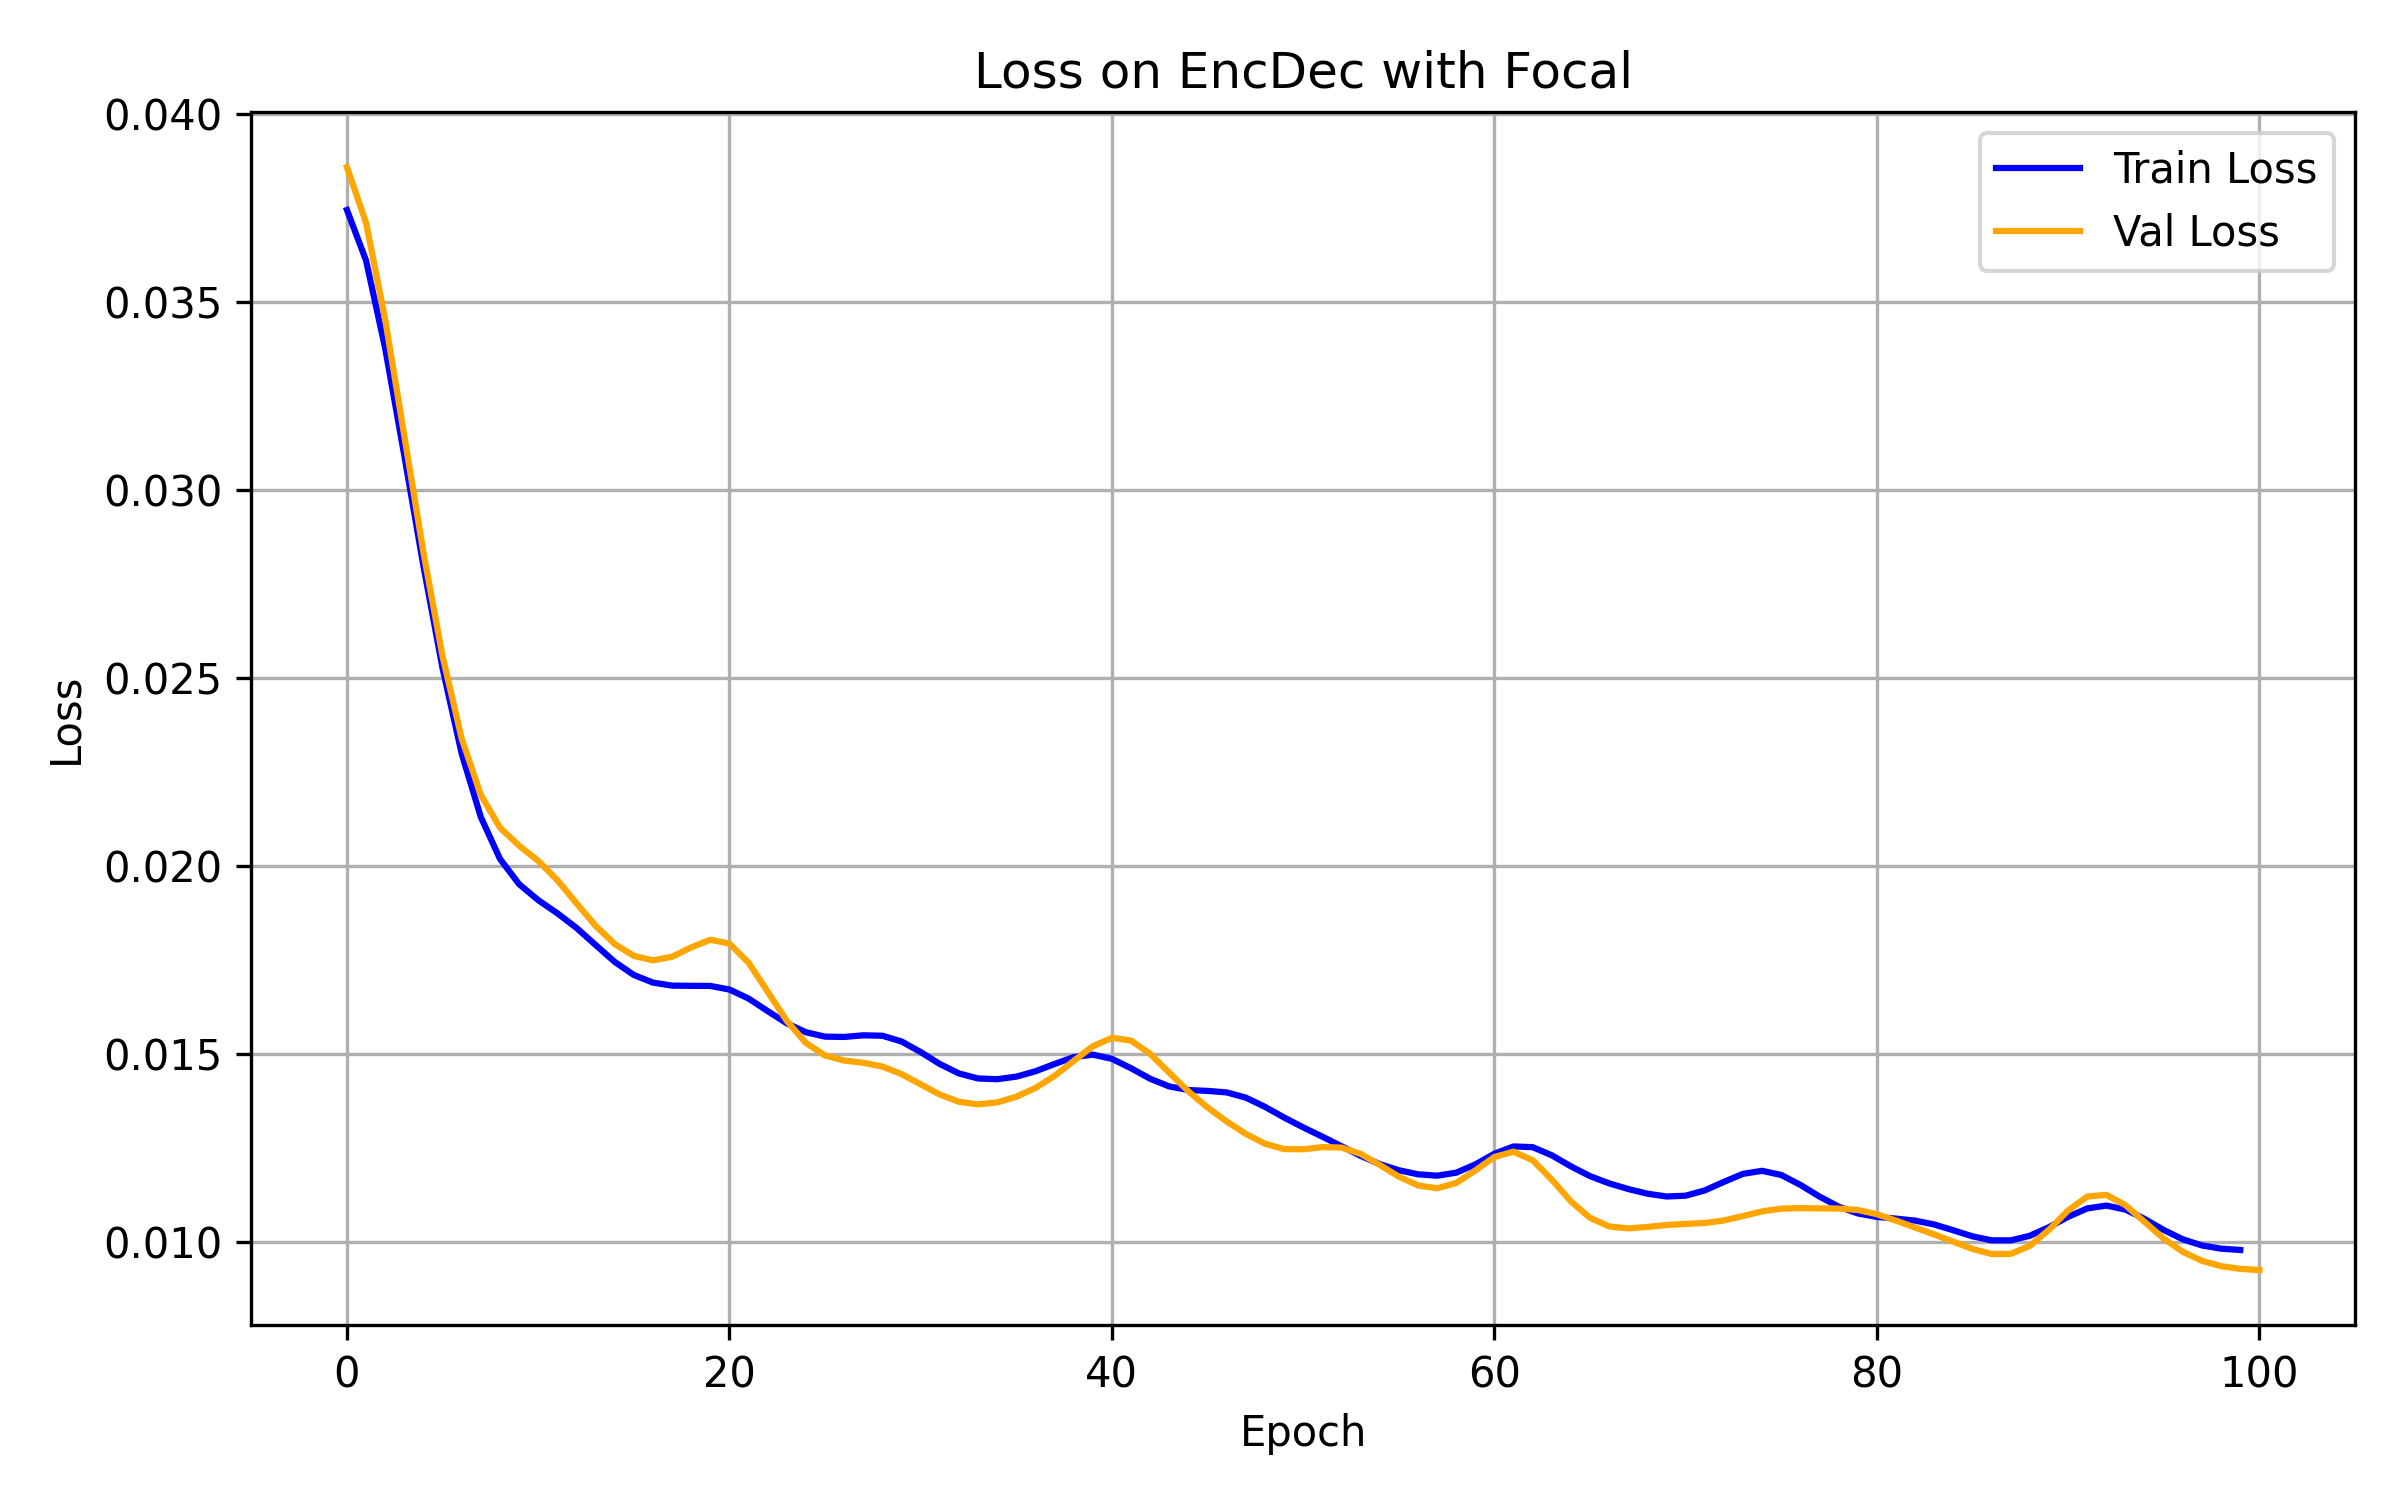
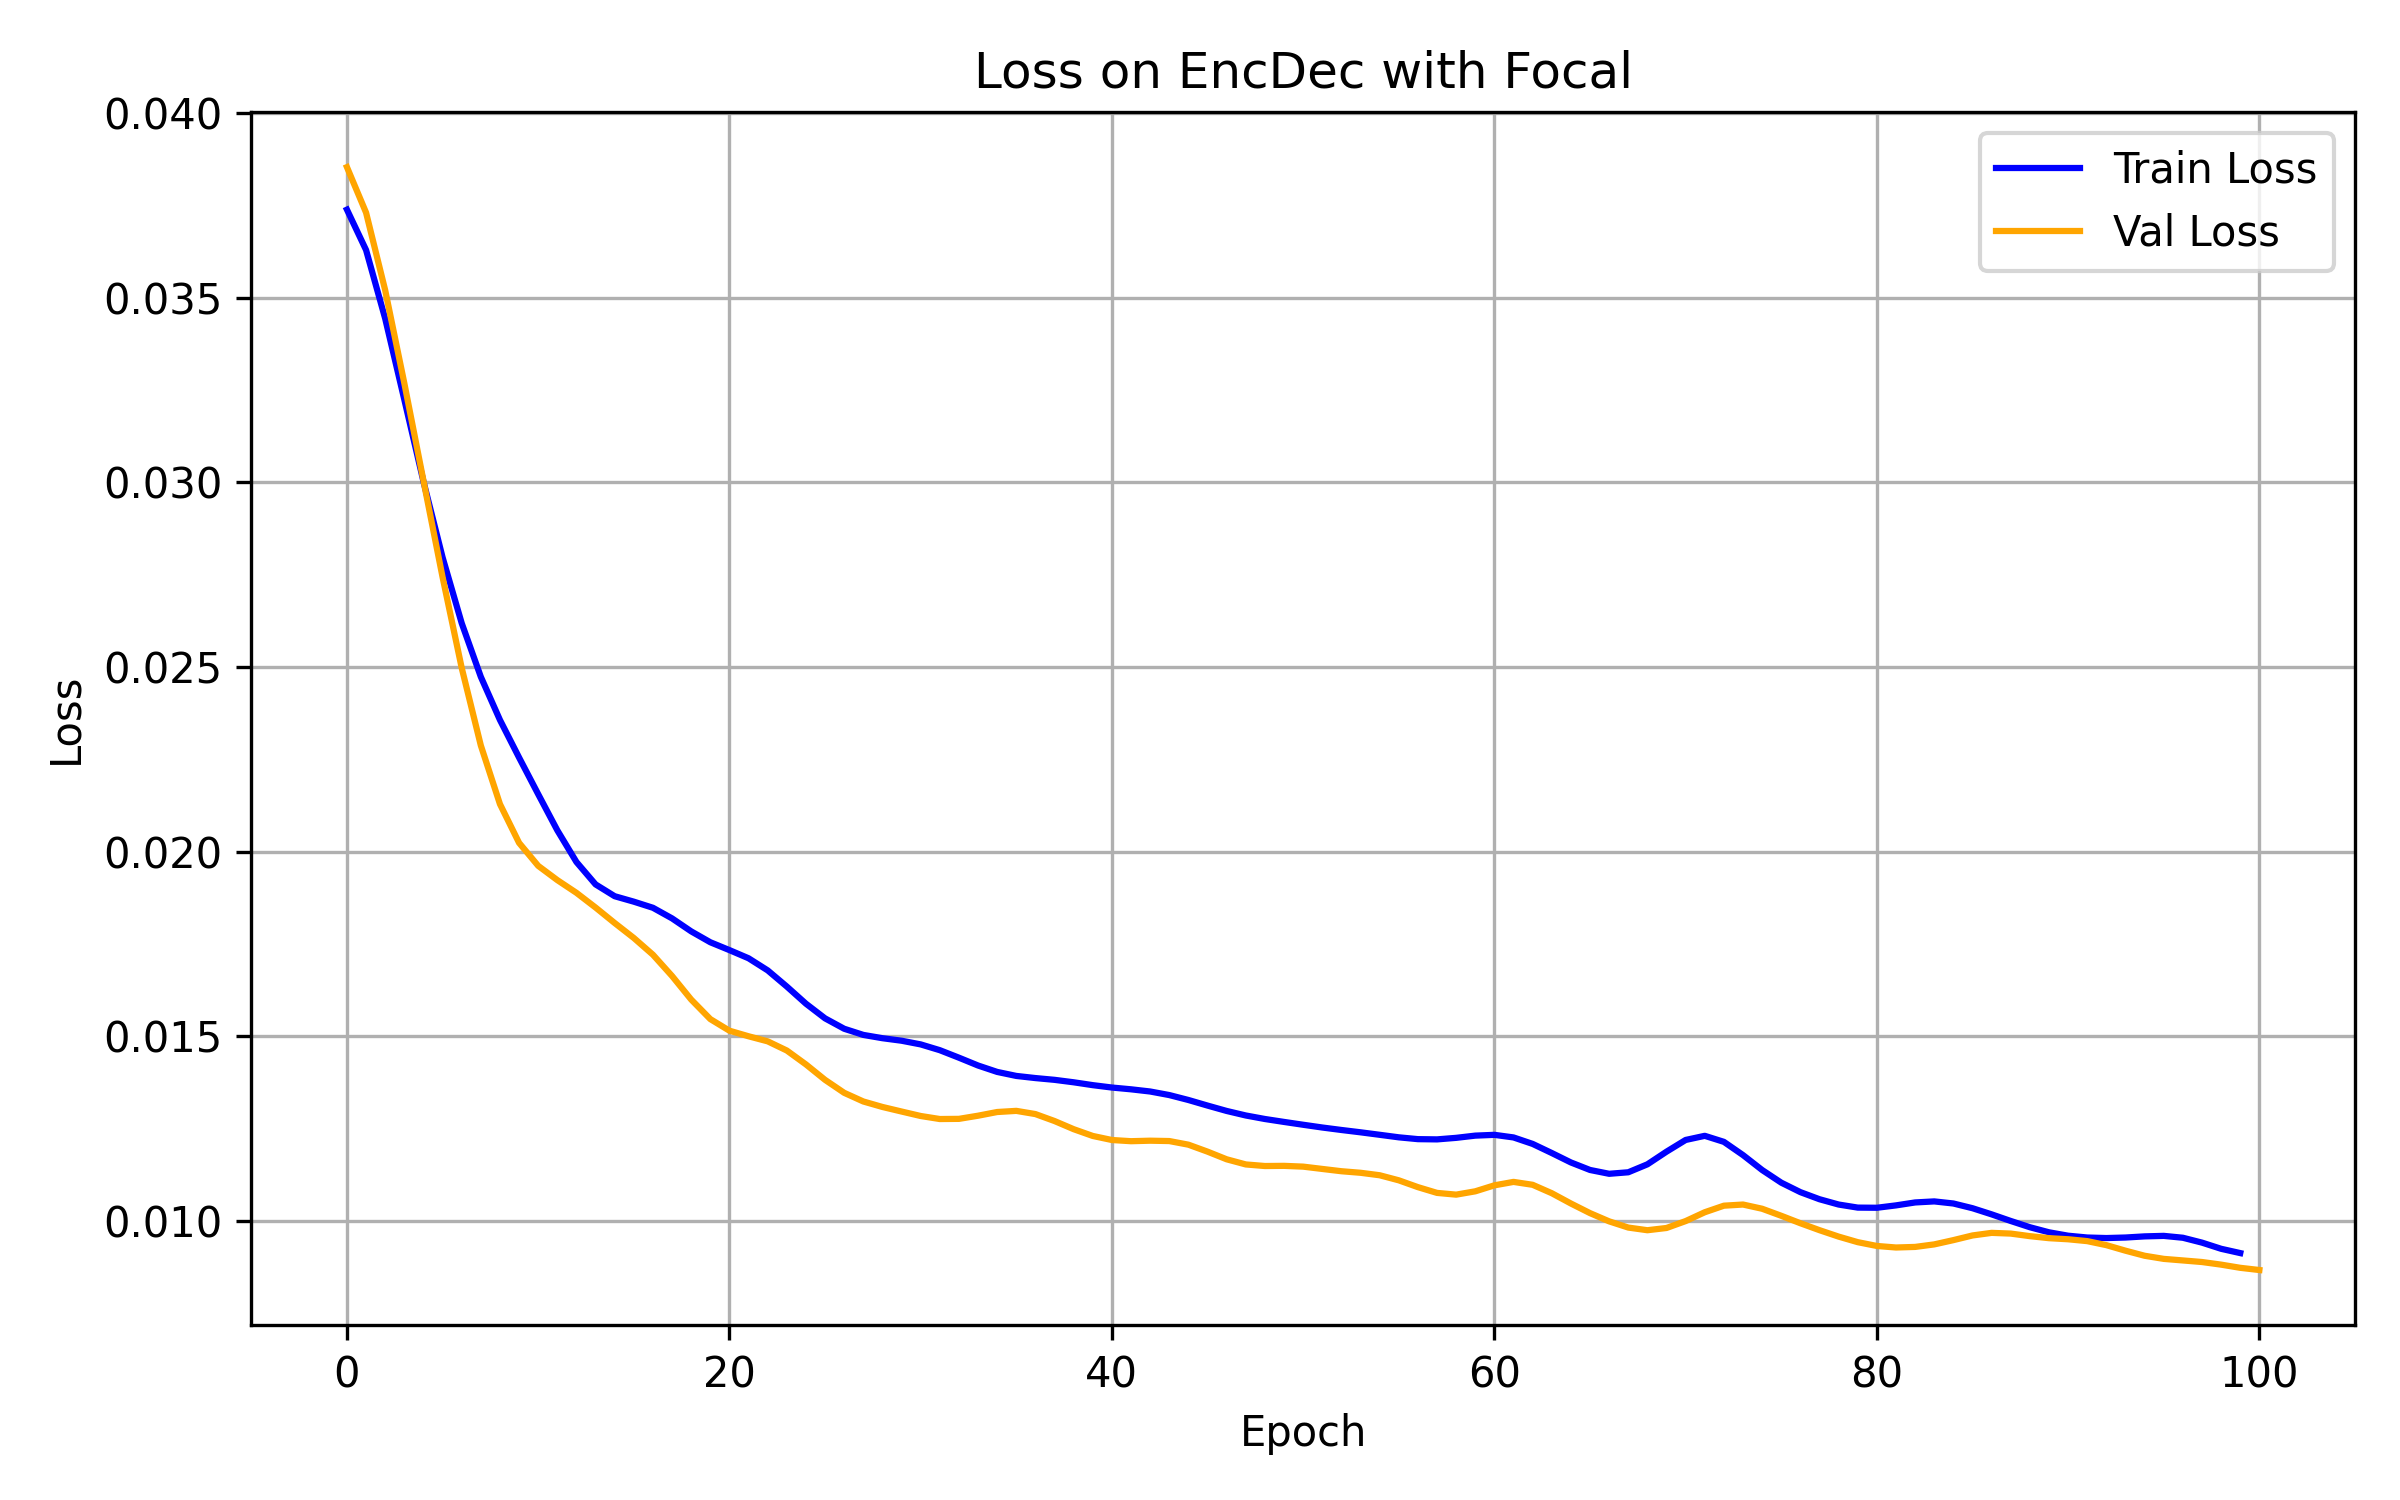
performance

Changed region(s): [[0.0312, 0.1227, 0.9688, 0.8587], [0.0312, 0.7973, 0.0938, 0.8587], [0.0625, 0.0613, 0.0938, 0.092]]

diff --git a/mytrain.py b/mytrain.py
@@ -68,9 +68,9 @@ def train_eval_ph2():
             "specificity": specificity_withLogtis
         }
     
-    model = LightningUNet2(loss_fn=loss, loss_name=loss_name, metrics=custom_metrics, n_channels=3, n_classes=1, base_c=32)
+    # model = LightningUNet2(loss_fn=loss, loss_name=loss_name, metrics=custom_metrics, n_channels=3, n_classes=1, base_c=32)
     
-    # model = LightningEncDec(loss_fn=loss, loss_name=loss_name, metrics=custom_metrics, in_channels=3, num_classes=1)
+    model = LightningEncDec(loss_fn=loss, loss_name=loss_name, metrics=custom_metrics, in_channels=3, num_classes=1)
     
     exp_name = f"{model.model_name}-{model.loss_fc_name}"
     
@@ -112,30 +112,32 @@ def train_eval_DRIVE():
         }
     
     # loss - Weight BCE
-    device = 'cuda' if torch.cuda.is_available() else 'cpu'
-    pos_weight=compute_pos_weight(train_loader, device)
-    # print(f'train pos_weight:{pos_weight}')
+    # device = 'cuda' if torch.cuda.is_available() else 'cpu'
+    # pos_weight=compute_pos_weight(train_loader, device)
+    # print(f'pos_weight:{pos_weight}\n')
 
-    loss = BCELoss(pos_weight=pos_weight, with_mask=True)
-    loss_name = 'MaskedWeightedBCE'
+    # loss = BCELoss(pos_weight=pos_weight, with_mask=True)
+    # loss_name = 'MaskedWeightedBCE'
     
     # loss - BCE
     # loss = BCELoss(with_mask=True)
     # loss_name = 'MaskedBCE'
     
     # loss - FocalLoss
-    # loss = FocalLoss(with_mask=True)
-    # loss_name = 'MaskedFocal'
+    loss = FocalLoss(with_mask=True)
+    loss_name = 'MaskedFocal'
     
-    model = LightningUNet2(loss_fn=loss, loss_name=loss_name, metrics=custom_metrics, n_channels=3, n_classes=1, base_c=32, with_mask=True)
+    # model = LightningUNet2(loss_fn=loss, loss_name=loss_name, metrics=custom_metrics, n_channels=3, n_classes=1, base_c=32, with_mask=True)
     
-    # model = LightningEncDec(loss_fn=loss, loss_name=loss_name, metrics=custom_metrics, in_channels=3, num_classes=1, with_mask=True)
+    model = LightningEncDec(loss_fn=loss, loss_name=loss_name, metrics=custom_metrics, in_channels=3, num_classes=1, with_mask=True)
     
     exp_name = f"{model.model_name}-{model.loss_fc_name}-DRIVE"
     
     logger = CSVLogger("logs", name=f"{exp_name}_experiment")
-    trainer = Trainer(max_epochs=100, log_every_n_steps=10, accelerator="gpu", logger=logger)
+    trainer = Trainer(max_epochs=150, log_every_n_steps=10, accelerator="gpu", logger=logger)
     trainer.fit(model, train_loader, val_loader)
+    
+    print(f'Test Result: {exp_name}')
     trainer.test(model, test_loader)
     
     model.plot_metrics()
@@ -143,6 +145,6 @@ def train_eval_DRIVE():
     
 if __name__ == "__main__":
     print("Begin")
-    # train_eval_ph2()
-    train_eval_DRIVE()
+    train_eval_ph2()
+    # train_eval_DRIVE()
     print("Finished")

diff --git a/lib/losses.py b/lib/losses.py
@@ -57,7 +57,9 @@ class FocalLoss(nn.Module):
     def forward(self, logits, targets, mask=None, eps=1e-7):
         bce = F.binary_cross_entropy_with_logits(logits, targets, reduction='none')
         pt = torch.exp(-bce)
-        loss = self.alpha * (1-pt)**self.gamma * bce
+        # alpha_t = self.alpha * targets + (1 - self.alpha) * (1 - targets)
+        # loss = alpha_t * (1 - pt)**self.gamma * bce
+        loss = self.alpha * (1 - pt)**self.gamma * bce
         
         if self.with_mask and mask is not None:
             mask = mask.float()
